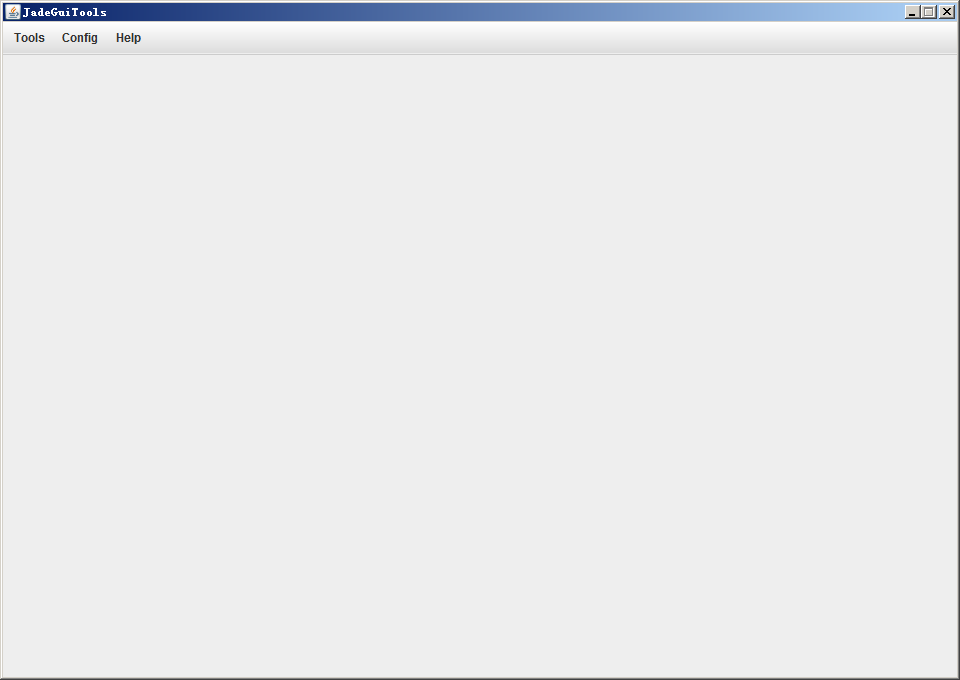
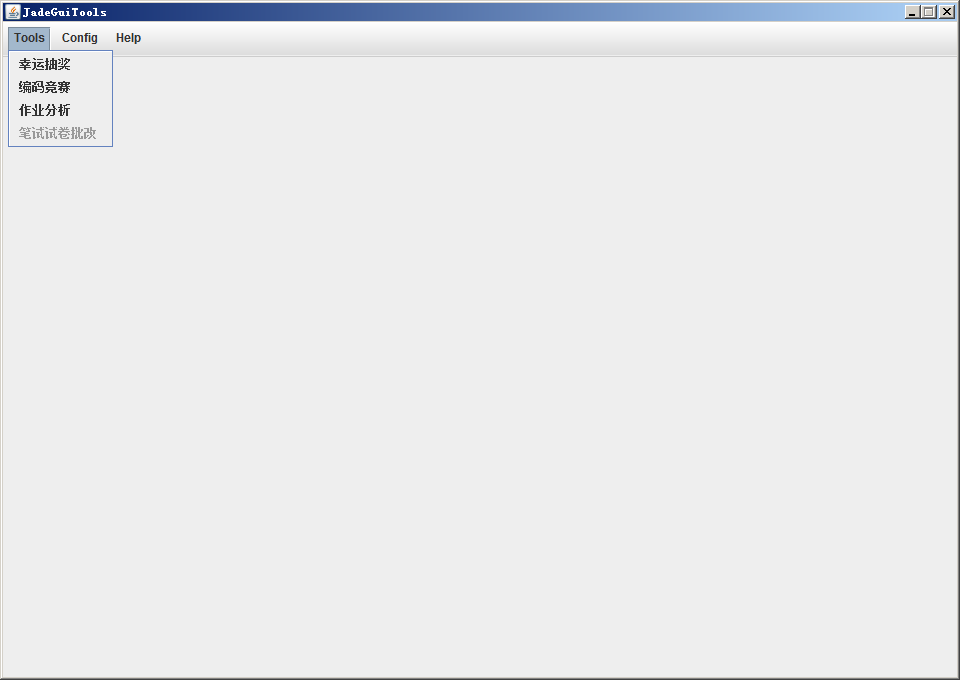
modify help document

Changed region(s): [[0.0, 0.0309, 0.125, 0.2162]]

diff --git a/README.md b/README.md
@@ -1,2 +1,64 @@
 # JadeGuiTools
-Jade Gui Tools
+青鸟教学工具
+
+## 如何使用
+**1.  主界面**
+
+<img src="https://github.com/bananaplan/JadeCmdTools/raw/gui/images_help/home.png" width="600" />
+
+**2.  设置班级和学员信息**
+
+第一次使用时，需要先设置班级和学员信息，用于 **随机点名** 和 **编码竞赛** 功能，如果没有进行此项设置，则以上2个功能不可用，且使用 **作业分析** 功能时，需要输入以学员名字命名的文件夹的深度。
+
+从 **Config** 菜单进入设置界面：
+
+![](https://github.com/bananaplan/JadeCmdTools/raw/gui/images_help/menu_config_class.png)
+
+设置班级和学员信息界面：
+
+![](https://github.com/bananaplan/JadeCmdTools/raw/gui/images_help/config_class.png)
+
+在 **班级名称** 的下拉框中，输入要添加的班级名称，在 **学员列表** 的文本框中，输入对应班级的学员信息：学号 姓名（中间用 空格 或 制表符 隔开），最后保存。
+
+**3.  选择班级**
+
+每次打开软件，或第一次设置完班级和学员信息后，都需要选择班级，使后续操作都基于当前选中的班级进行。
+
+![](https://github.com/bananaplan/JadeCmdTools/raw/gui/images_help/select_class.png)
+
+除了选择设置好的班级以外，还可以选择 **其他班级**，当选此项时，由于不能获取学员信息，所以无法使用 随机点名 和 编码竞赛 等功能。
+
+**4.  随机点名**
+
+从 **Tools** 菜单，选择 **幸运抽奖** 进入，用于随机生成学员姓名，课堂点名提问。生成的学员姓名不会与已点过名的重复，也就是说，一个学员只能被点一次，全部轮完后，则重新开始。也可以点击界面右下角的 **重置**，重新开始新一轮点名。
+
+![](https://github.com/bananaplan/JadeCmdTools/raw/gui/images_help/lucky.png)
+
+**5.  编码竞赛**
+
+用于记录学员上机完成情况，按照完成速度排序。
+
+![](https://github.com/bananaplan/JadeCmdTools/raw/gui/images_help/competition_usage.png)
+
+用法：
+1.  先输入上机练习标题，点击 **开始竞赛**，界面右下角就会出现当前所用时间。
+2.  当学员完成上机后，报其学员编号，将编号输入 **学员编号** 文本框，点击 **回车** （或点击 提交 按钮），完成记录会立即出现在下面列表中。
+3.  可以通过下拉框选择查看当日的上机完成情况，由于所有的数据，均以普通文本的形式保存，也可进入 **report文件夹** 自行查看详情。
+
+**6.  作业分析**
+
+分析录屏和作业相似度。
+
+![](https://github.com/bananaplan/JadeCmdTools/raw/gui/images_help/homework_usage.png)
+
+用法：
+1.  先输入或选择作业目录。
+2.  如果没有选择班级，或选的是其他班级，则需要输入以学员姓名命名的文件夹的深度，用于定位学员姓名。
+3.  可以输入过滤关键字，用来忽略某些目录和文件，多个关键字用 **空格** 隔开。
+4.  点击 **开始分析**，分析完成后，结果会显示在下方列表。
+5.  **双击** 列表中的某一条，查看代码差异，也可以选中某一条，点击下方的 **显示差异** 和 **显示详情** 按钮来查看差异。
+6.  点击 **录屏详情**，查看录屏情况。
+
+**7.  笔试选择题批改**
+
+待开发...
